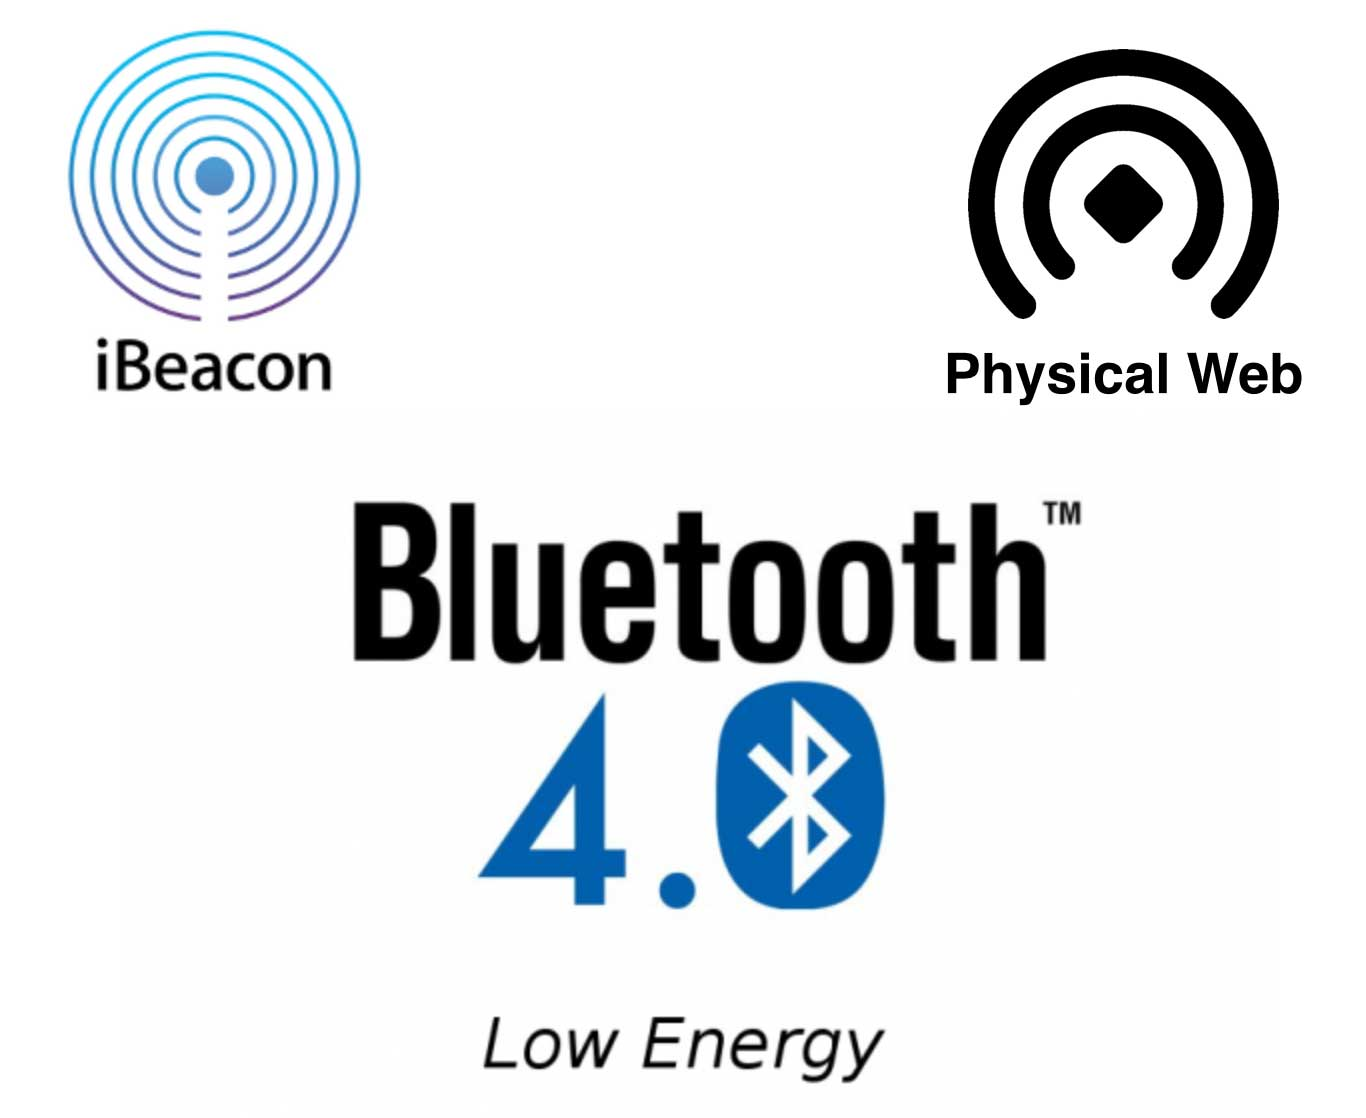
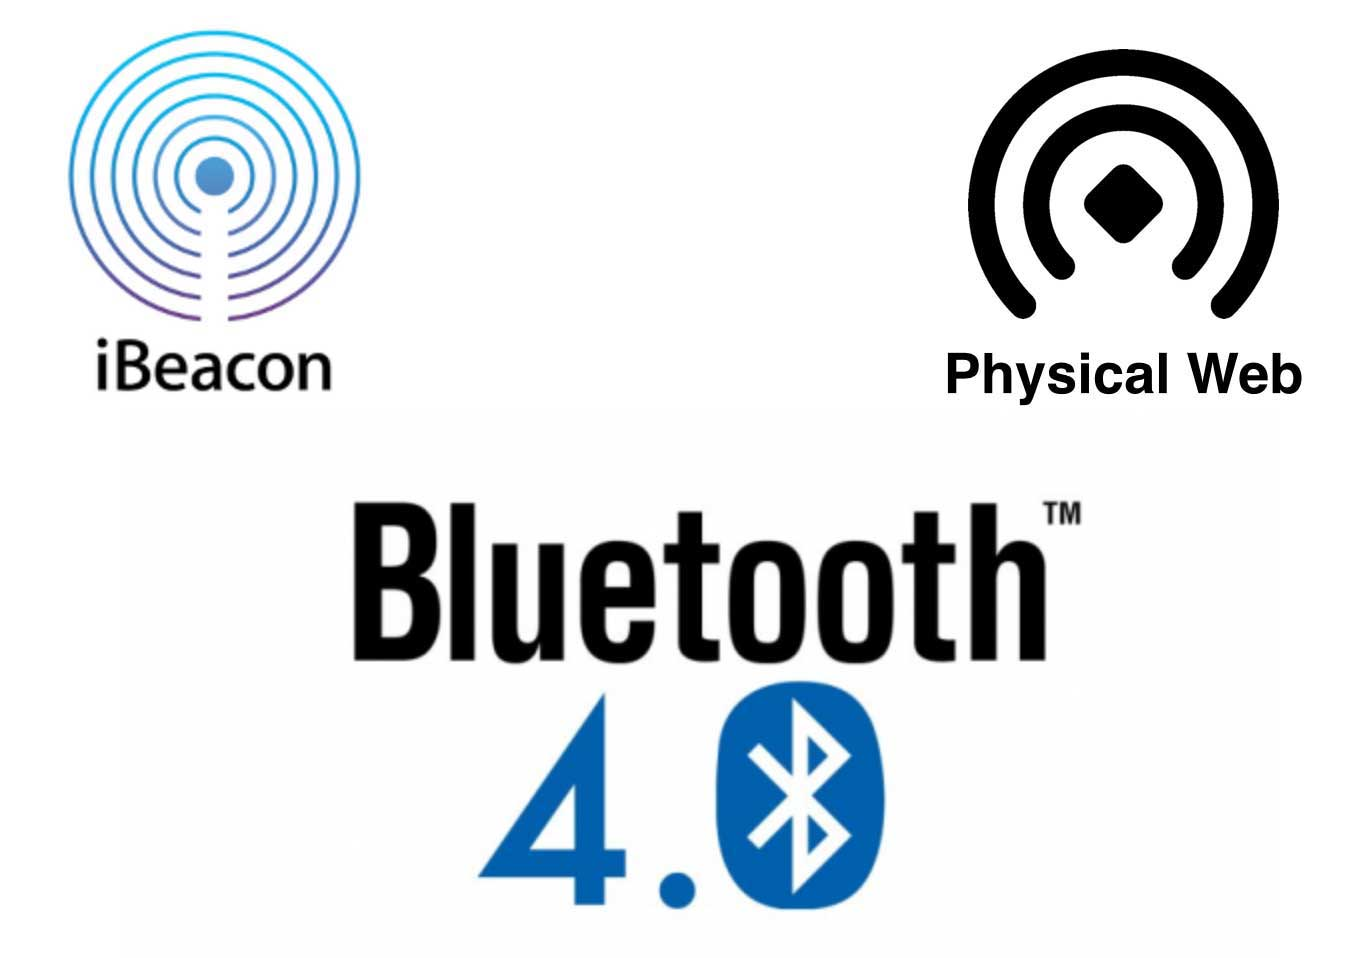
improve BLE and beacons slide

Changed region(s): [[0.246, 0.0303, 0.9531, 0.9687], [0.0307, 0.0, 0.2767, 0.4238]]

diff --git a/index.html b/index.html
@@ -60,8 +60,12 @@
 				</section>
 
 				<section>
-					<img src="presentation/images/ble.jpg" style="max-height: 75%; border: none; box-shadow: none;" />
-					<p>Energisnålt, sänder “advertisements” via radiovågor</p>
+					<img src="presentation/images/ble.jpg" style="max-height: 60%; border: none; box-shadow: none;" />
+					<ul>
+						<li>"Beacons" baserade på Bluetooth Low Energy (BLE)</li>
+						<li>Sänder "advertisements" via radiovågor</li>
+						<li>Mellan 10-50 meters räckvidd</li>
+					</ul>
 				</section>
 
 				<section>
